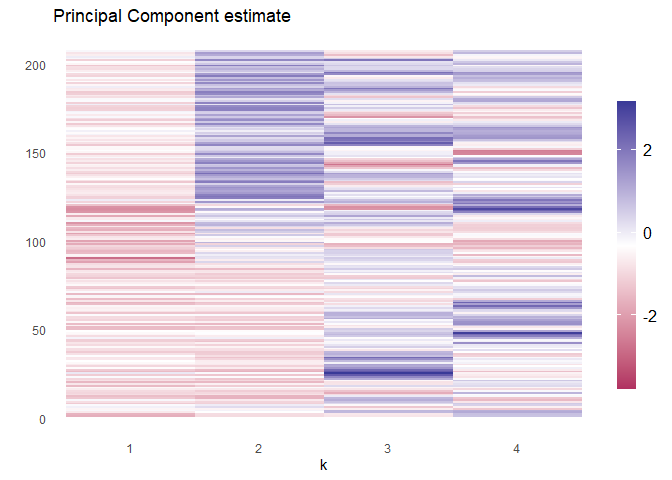
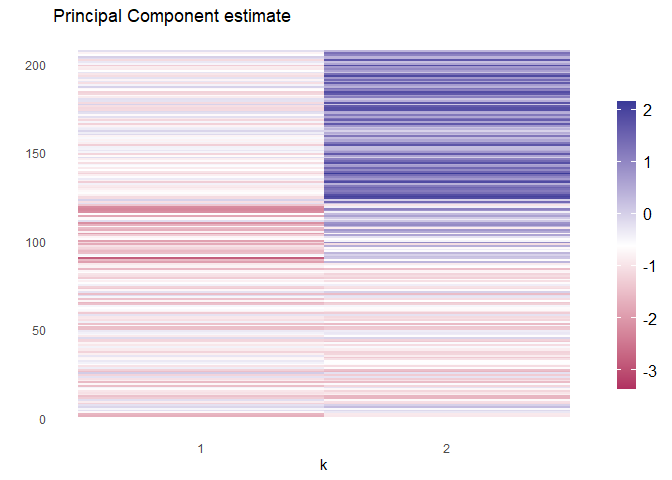
#7 update examples to 2 factors throughout

diff --git a/README.md b/README.md
@@ -38,10 +38,10 @@ library(l1rotation)
 set.seed(916) 
 
 # Minimal example with 4 factors, where X is a 224 by 207 matrix
-lf <- local_factors(X = example_data, r = 4)
+lf <- local_factors(X = example_data, r = 2)
 
 # Rerun with parallel processing
-lf_lambdas <- find_local_factors(X = example_data, r = 4, parallel = TRUE, n_cores = 10)
+lf_lambdas <- find_local_factors(X = example_data, r = 2, parallel = TRUE, n_cores = 10)
 
 # Visualize Principal Component estimate of the loadings
 lf$pc_plot
